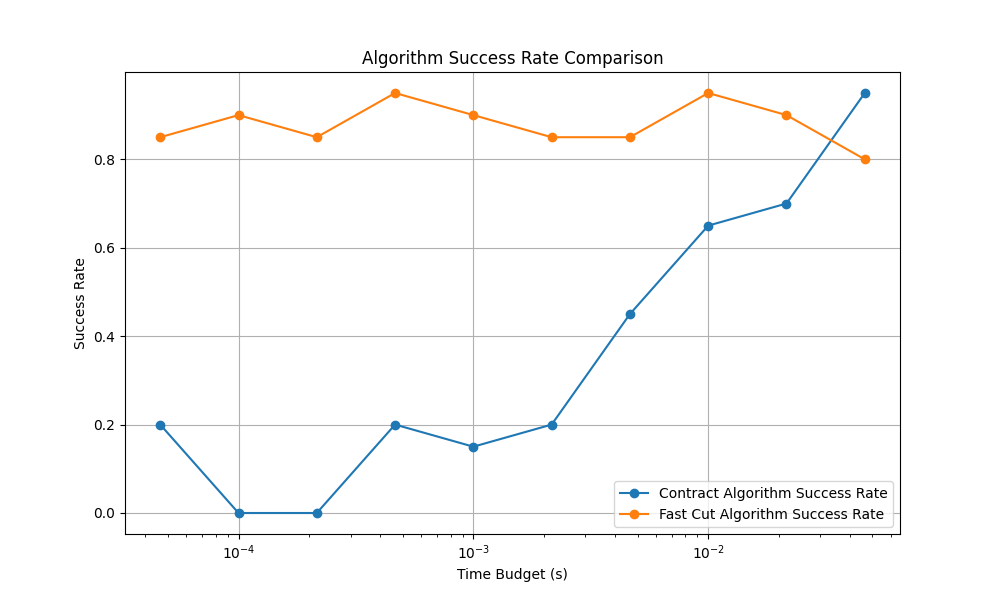
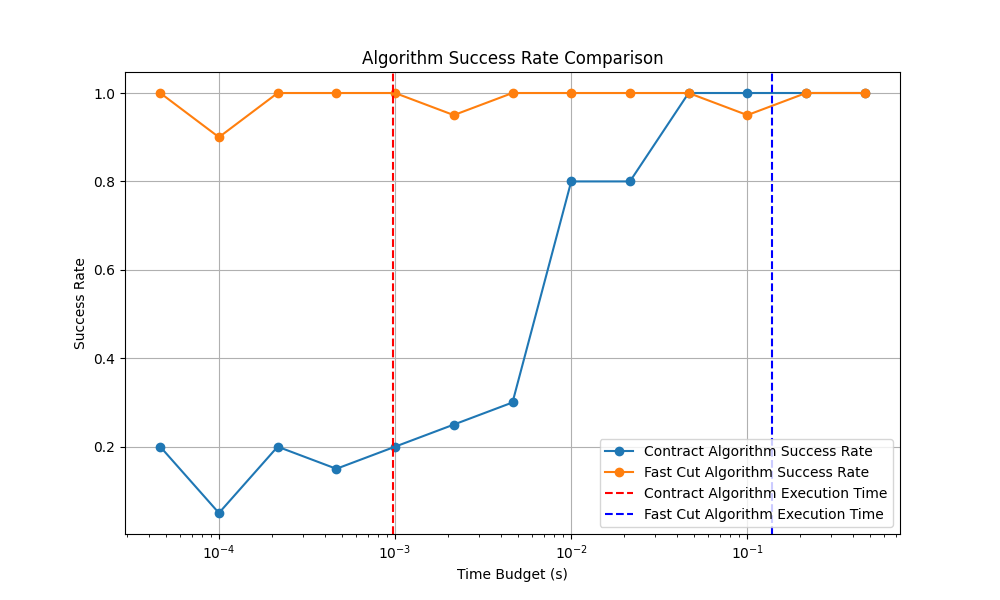
Refactor success rate comparison and update graph generation parameters

diff --git a/src/main.py b/src/main.py
@@ -130,7 +130,22 @@ def test_compare_algorithms():
     
     
 def compare_success_rate(graph, min_cut, n_test):
-    time_budgets = [10**(i/3) for i in range(-13, -3)]
+    
+    # compute the time take by 1 execution of the contract algorithm
+    start = time.time()
+    graph.contract_algorithm()
+    contract_time = time.time() - start
+    graph.reset_graph()
+    
+    # compute the time take by 1 execution of the fast cut algorithm
+    start = time.time()
+    graph.fast_cut_algorithm()
+    fast_cut_time = time.time() - start
+    graph.reset_graph()
+    
+    
+    
+    time_budgets = [10**(i/3) for i in range(-13, 0)]
     contract_success_rates = []
     fast_cut_success_rates = []
 
@@ -144,7 +159,7 @@ def compare_success_rate(graph, min_cut, n_test):
                 run_count += 1
                 min_cut_found = min(min_cut_found, algo())
                 graph.reset_graph()
-            print(f"run count: {run_count}")
+            print("time taken : " + str(time.time() - start))
             if min_cut_found == min_cut:
                 success_count += 1
         return success_count / n_test
@@ -161,6 +176,8 @@ def compare_success_rate(graph, min_cut, n_test):
     plt.figure(figsize=(10, 6))
     plt.plot(time_budgets, contract_success_rates, label='Contract Algorithm Success Rate', marker='o')
     plt.plot(time_budgets, fast_cut_success_rates, label='Fast Cut Algorithm Success Rate', marker='o')
+    plt.axvline(x=contract_time, color='r', linestyle='--', label='Contract Algorithm Execution Time')
+    plt.axvline(x=fast_cut_time, color='b', linestyle='--', label='Fast Cut Algorithm Execution Time')
     plt.xscale('log')
     plt.xlabel('Time Budget (s)')
     plt.ylabel('Success Rate')
@@ -239,11 +256,11 @@ def compare_algorithms(graph):
 
 if __name__ == "__main__":
     
-    n = 100
-    m = (2/4)*(n*(n-1)/2) - 1
+    n = 40
+    m = (1/8)*(n*(n-1)/2) - 1
     #num_trials = n * (n - 1) * int(math.log(n))
     num_trials = 100
-    n_test = 40
+    n_test = 20
 
     print(f"n: {n}, m: {m}, num_trials: {num_trials}")
 
@@ -260,12 +277,12 @@ if __name__ == "__main__":
     
     
     # print("theorical success probability for contract algo : " + str(compute_theorical_success_probability_contract(n)))
-    print("theorical sucess probability for fast cut algo : " + str(compute_theorical_success_probability_fast_cut(n)))
+    #print("theorical sucess probability for fast cut algo : " + str(compute_theorical_success_probability_fast_cut(n)))
     
     # print("empirical success probability for contract algo : " + str(compute_empirical_success_probability(graph, n_test, len(min_cut), algo = "contract")))
-    print("empirical success probability for fast cut algo : " + str(compute_empirical_success_probability(graph, n_test, len(min_cut), algo = "fast_cut")))
+    #print("empirical success probability for fast cut algo : " + str(compute_empirical_success_probability(graph, n_test, len(min_cut), algo = "fast_cut")))
         
     #test_fast_cut_success_rate(graph, len(min_cut))
 
     #compare_algorithms(graph)
-    #compare_success_rate(graph, len(min_cut), n_test)
+    compare_success_rate(graph, len(min_cut), n_test)

diff --git a/src/graph.py b/src/graph.py
@@ -5,6 +5,7 @@ import pygraphviz as pgv
 import math
 import networkx as nx
 
+
 from functools import lru_cache
 
 
@@ -104,8 +105,8 @@ class Graph:
         
         return min_cut
     
-    #@lru_cache(None)
     def fast_cut_algorithm(self):
+        
         
         if self.V <= 6:
             return self.brute_force_cut()
@@ -162,7 +163,7 @@ class Graph:
         self.remember_edges()
     
     def create_erdos_renyi_graph(self, V):
-        G = nx.erdos_renyi_graph(n=V, p=0.2)
+        G = nx.erdos_renyi_graph(n=V, p=0.5)
         self.edges = list(G.edges)
         self.remember_edges()
     
